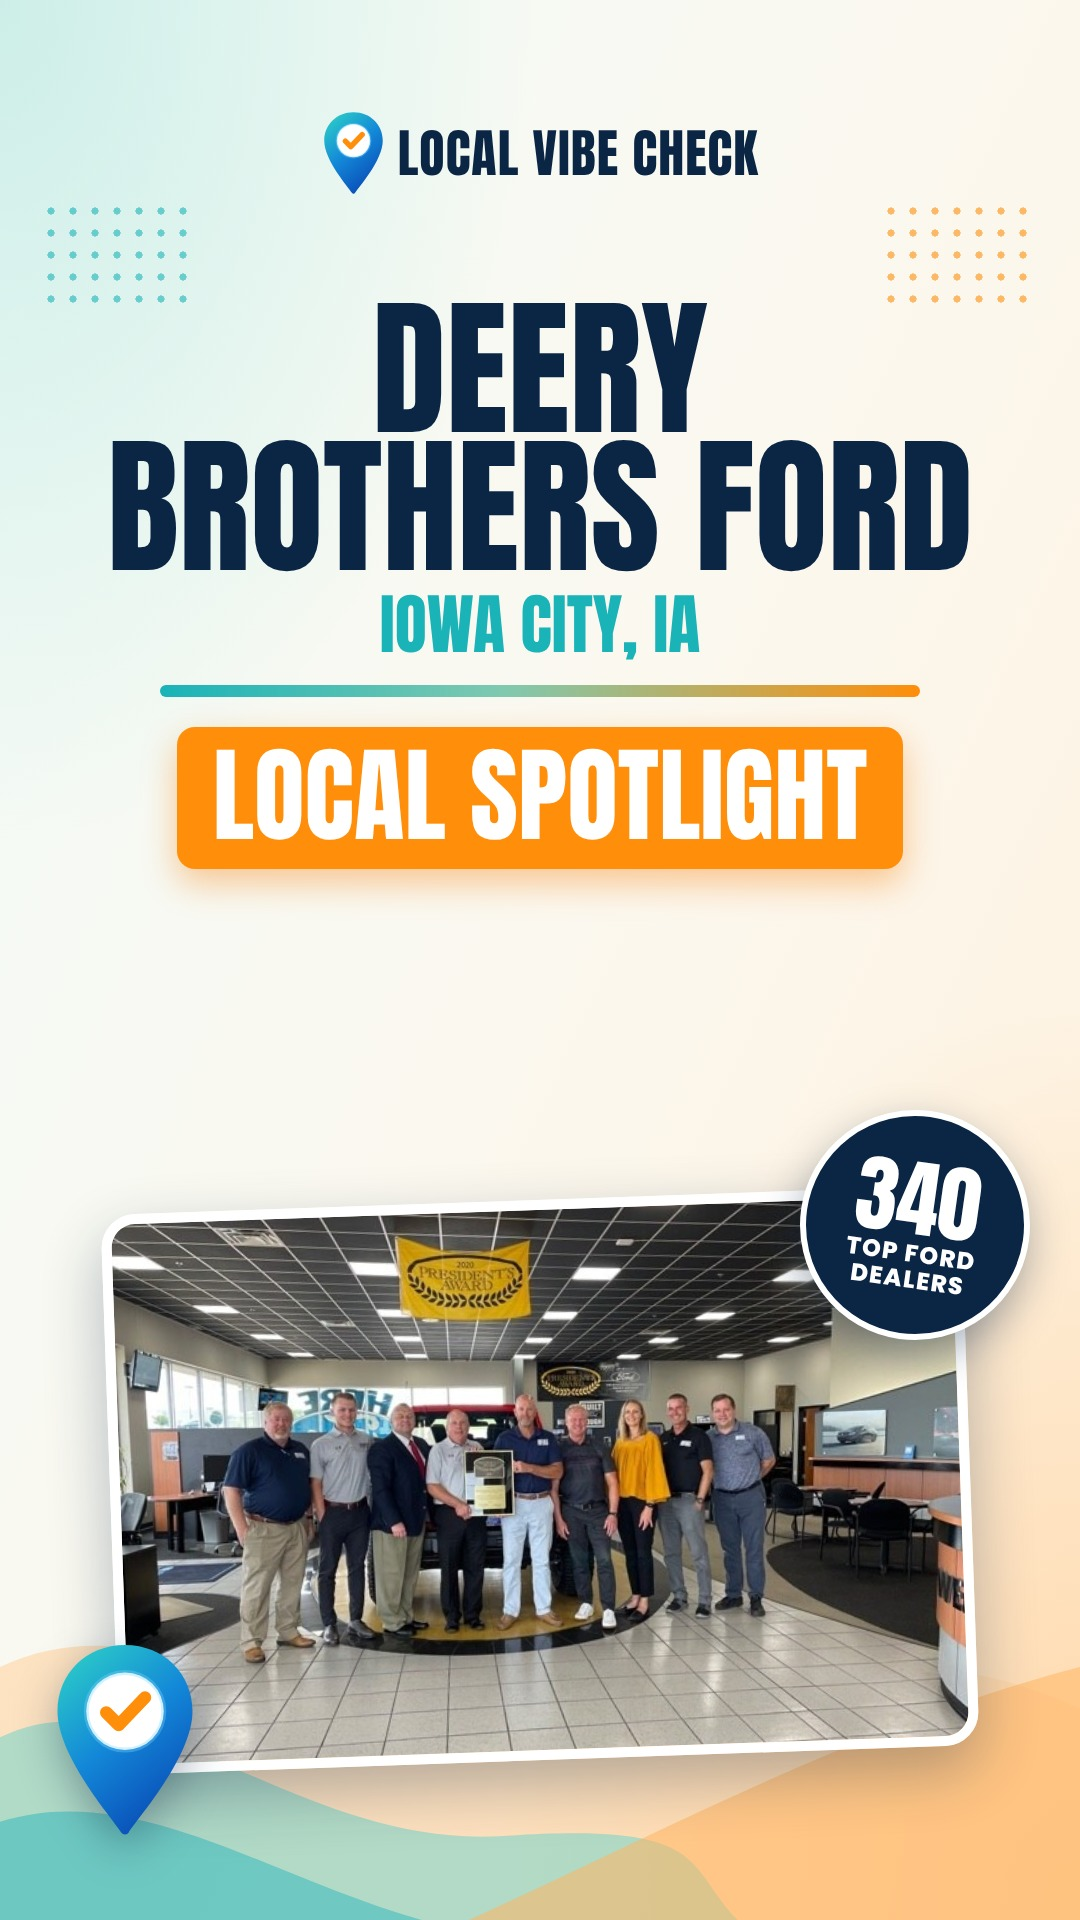
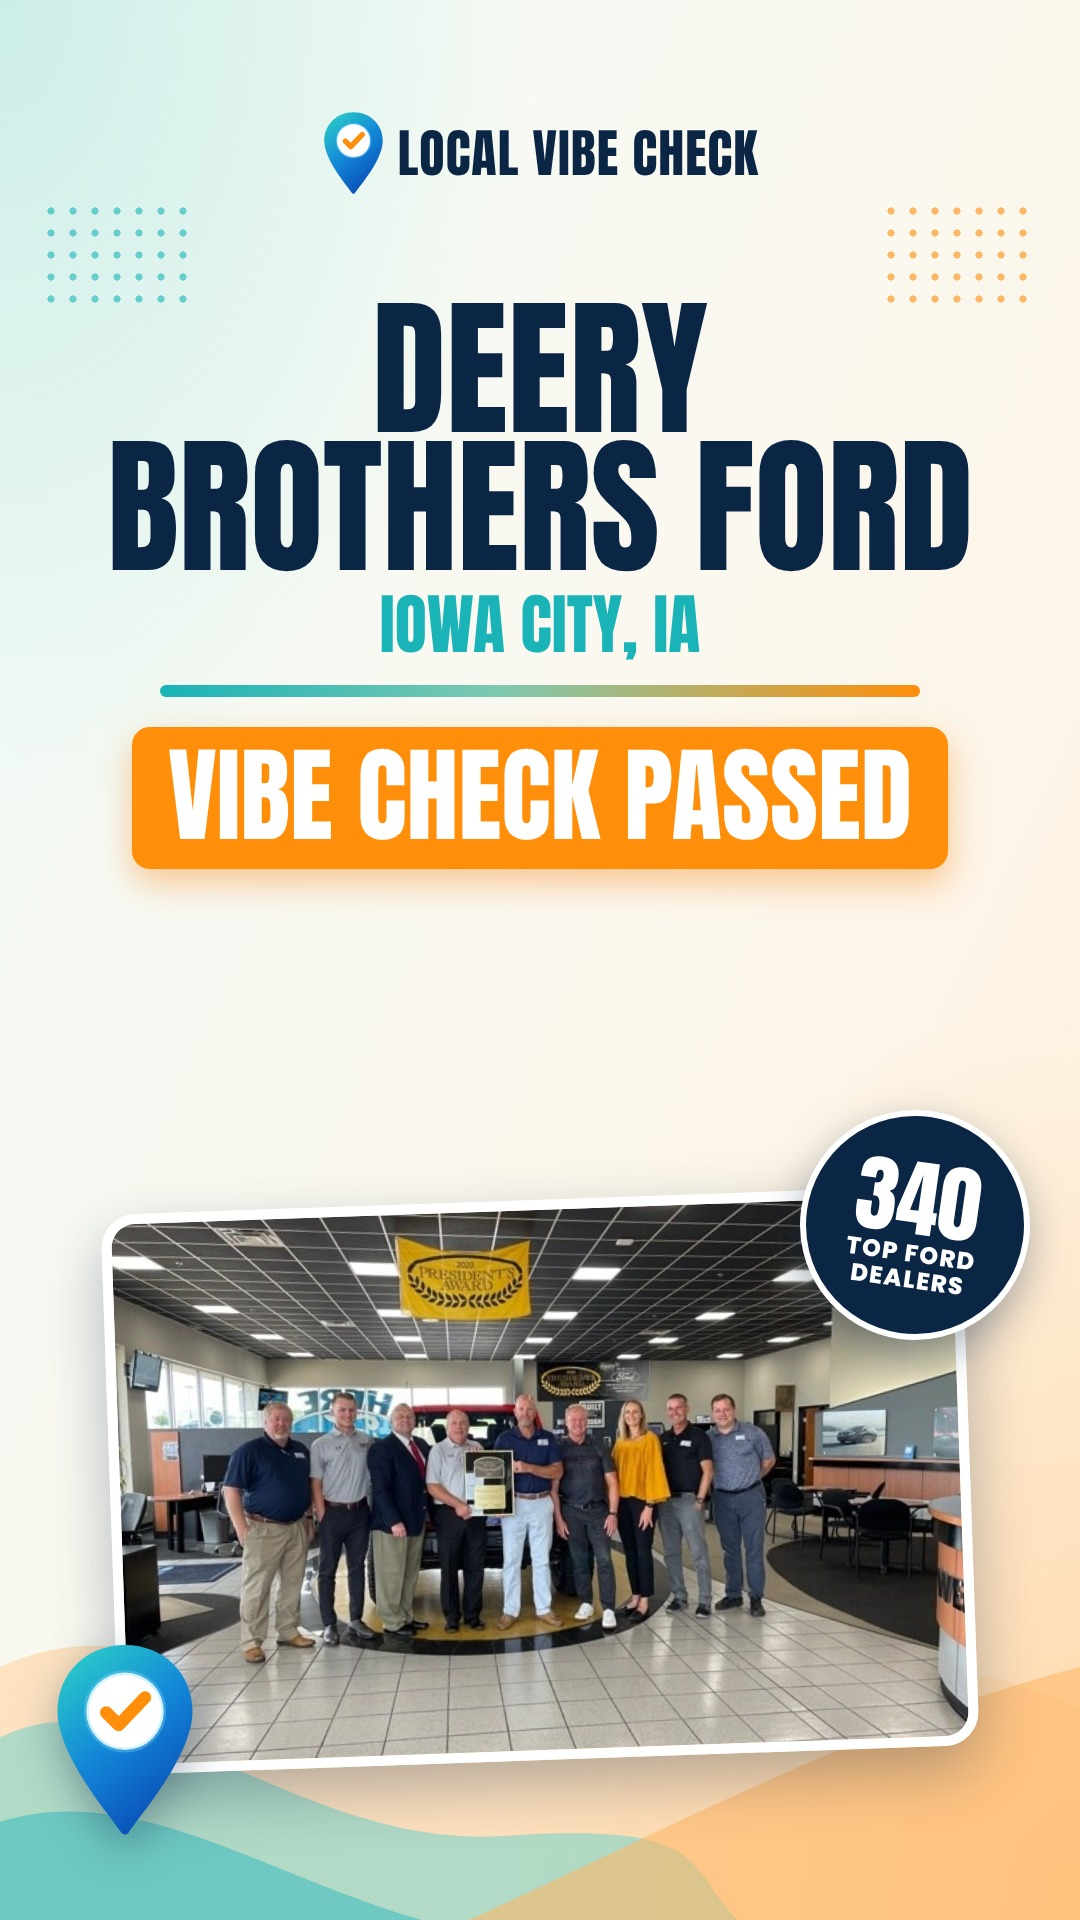
Deery Brothers Ford: end on "Vibe check passed" series sign-off
Engine: cta scenes take a "verdict" stamp in Local Vibe Check colors that
slams in on a cued word; thumbs.mjs takes tagPx; srt.py keeps short colon
phrases together and never overlaps cues.

Deery: narration now ends "Vibe check: passed." (holds retuned to keep
90.0s / 45.0s), thumbnail tag reads "Vibe Check Passed", and the YouTube
titles, description and Short caption carry it. Videos re-render next.

Claude-Session: https://claude.ai/code/session_019XHQQHv5uH696c3W2dV2VT

Changed region(s): [[0.0917, 0.375, 0.8861, 0.4688]]

diff --git a/videos/_engine/scenes.css b/videos/_engine/scenes.css
@@ -211,6 +211,22 @@ table.big th, table.big td { padding: 16px 30px; }
 .reel .contact { width: 100%; text-align: center; }
 .reel .tip { justify-content: center; }
 
+/* Series sign-off stamp ("Vibe check / Passed"): always in Local Vibe Check colors, whatever the theme */
+.verdict { position: absolute; z-index: 5; display: flex; align-items: center; gap: 18px; padding: 16px 34px 18px 22px;
+  background: #fff; color: #0b2545; border: 6px solid #19b3b8; border-radius: 26px; transform: rotate(-6deg);
+  box-shadow: 0 0 0 7px #fff, 0 0 0 11px #ff8e0a, 0 26px 50px rgba(11, 37, 69, .35); }
+.verdict img { height: 100px; flex: none; }
+.verdict .vt { display: flex; flex-direction: column; }
+.verdict .vt span { font: 800 25px/1 "Poppins", sans-serif; letter-spacing: .2em; text-transform: uppercase; color: #0b2545; }
+.verdict .vt b { font: 400 96px/.95 "Anton", Impact, sans-serif; text-transform: uppercase; letter-spacing: .02em; color: #19b3b8; margin-top: 6px; }
+.slam { animation-name: slam; animation-duration: .45s; animation-timing-function: cubic-bezier(.25, 1.35, .45, 1); }
+@keyframes slam { 0% { opacity: 0; transform: rotate(-14deg) scale(2.3); } 55% { opacity: 1; } 100% { opacity: 1; transform: rotate(-6deg) scale(1); } }
+.cta .verdict { left: 300px; bottom: 150px; }
+.reel .cta .verdict { left: auto; right: 70px; bottom: auto; top: 470px; }
+.reel .verdict img { height: 120px; }
+.reel .verdict .vt span { font-size: 30px; }
+.reel .verdict .vt b { font-size: 116px; }
+
 /* Captions */
 .caption { position: absolute; left: 0; right: 0; bottom: 56px; display: flex; justify-content: center; z-index: 6; }
 .caption span.box { font: 800 46px/1.15 var(--body); text-transform: uppercase; letter-spacing: .01em; color: #fff; background: var(--navy); padding: 16px 30px 18px; border-radius: 18px; box-shadow: 0 10px 30px rgba(11, 37, 69, .35); border-bottom: 6px solid var(--orange); max-width: 80%; text-align: center; }

diff --git a/videos/_engine/srt.py b/videos/_engine/srt.py
@@ -54,10 +54,13 @@ def cues(scenes, fmt):
             nxt = words[i + 1][0] if i + 1 < len(words) else None
             text = " ".join(line)
             brk = (nxt is None or len(text) + len(words[i + 1][1]) + 1 > MAX_CHARS
-                   or nxt - t0 > MAX_SECS or w.endswith((".", "?", "!", ":")) or (w.endswith(",") and len(text) > 24))
+                   or nxt - t0 > MAX_SECS or w.endswith((".", "?", "!")) or (w.endswith((",", ":")) and len(text) > 24))
             if brk:
                 end = min(nxt if nxt is not None else end_of_scene - 0.3, t0 + 4.5)
-                out.append((t0, max(end, t0 + 0.6), text))
+                end = max(end, t0 + 0.6)
+                if nxt is not None:
+                    end = min(end, nxt)  # never overlap the next cue
+                out.append((t0, end, text))
                 line, t0 = [], None
     return out
 

diff --git a/videos/deery-brothers-ford-spotlight-2026/youtube.md b/videos/deery-brothers-ford-spotlight-2026/youtube.md
@@ -8,11 +8,11 @@ Captions: `out/deery-brothers-ford-spotlight-2026.srt` (YouTube Studio → Subti
 
 ### Title
 
-Deery Brothers Ford Iowa City: No Haggling, In & Out in 90 Minutes (Local Business Spotlight)
+Vibe Check Passed ✅ Deery Brothers Ford, Iowa City (No Haggling, In & Out in 90 Minutes)
 
 Shorter alternatives:
-- Deery Brothers Ford: Iowa City's Hometown Ford Dealer | Local Vibe Check
-- Meet Deery Brothers Ford, Iowa City (Co-Owner Tyler Eads on Respect & Transparency)
+- Deery Brothers Ford, Iowa City: Vibe Check Passed ✅ | Local Vibe Check
+- Vibe Check Passed: Iowa City's Hometown Ford Dealer, Deery Brothers Ford
 
 ### Description
 
@@ -39,6 +39,8 @@ See dealer for complete warranty details and eligibility.
 
 "Buying the car is the wedding. Owning the car is the marriage." – Tyler Eads, co-owner
 
+✅ Deery Brothers Ford: vibe check passed.
+
 What customers say (4.8★ on Google):
 ⭐ "Had such a phenomenal experience buying my first big girl car at Deery!! What can typically be a very intimidating process was made so easy." – Elizabeth J.
 ⭐ "My salesman was prompt, professional, and so easy to work with. Overall, 6 out of 5 stars." – Eric H.
@@ -49,17 +51,17 @@ Chapters:
 0:20 New, used, financing & service
 0:37 The ownership experience: warranty & awards
 0:58 Treated fairly: customer reviews
-1:16 Visit Deery Brothers Ford
+1:16 Visit Deery Brothers Ford: vibe check passed
 
 Details from deeryford.com. Reviews via Deery Brothers Ford's customer reviews page. Footage: Deery Brothers Ford.
 
 Local Vibe Check: price guides, places and trusted local businesses. Subscribe for more local spotlights.
 
-#DeeryBrothersFord #IowaCity #FordDealer #IowaCityFord #LocalBusiness #Iowa #LocalVibeCheck
+#VibeCheckPassed #DeeryBrothersFord #IowaCity #FordDealer #IowaCityFord #LocalBusiness #LocalVibeCheck
 
 ### Tags
 
-deery brothers ford, deery ford, deery brothers ford iowa city, iowa city ford dealer, ford dealer iowa city, iowa city car dealership, new ford iowa city, used cars iowa city, ford service iowa city, ford f-150 iowa city, tyler eads, no haggle car buying, iowa city, coralville, north liberty, local business spotlight, local vibe check
+deery brothers ford, deery ford, deery brothers ford iowa city, iowa city ford dealer, ford dealer iowa city, iowa city car dealership, new ford iowa city, used cars iowa city, ford service iowa city, ford f-150 iowa city, tyler eads, no haggle car buying, iowa city, coralville, north liberty, local business spotlight, local vibe check, vibe check passed
 
 ### Settings
 
@@ -76,16 +78,17 @@ Captions: burned in. `out/deery-brothers-ford-spotlight-2026-reel.srt` is option
 
 ### Title
 
-No Haggling, In & Out in 90 Minutes 🚙 Deery Brothers Ford Iowa City #shorts
+Vibe Check Passed ✅ Deery Brothers Ford, Iowa City #shorts
 
 ### Caption
 
 "People just want to be respected." 👇 Co-owner Tyler Eads on how Deery Brothers Ford does it in Iowa City.
 🚙 New & used Fords · 💳 financing & trades · 🔧 service & parts · 🚚 free pickup & delivery
 ⭐ 4.8 stars on Google
+✅ Vibe check: passed.
 
 📞 (319) 337-4600
 📍 2343 Mormon Trek Blvd, Iowa City, IA 52246
 🔗 https://www.deeryford.com/
 
-#shorts #DeeryBrothersFord #IowaCity #FordDealer #LocalVibeCheck
+#shorts #VibeCheckPassed #DeeryBrothersFord #IowaCity #LocalVibeCheck

diff --git a/videos/README.md b/videos/README.md
@@ -57,6 +57,11 @@ clip's own audio instead of a voiceover (Whisper times its captions). Start the 
 strip for a scene (the source footage often has its own) and gives a `footage` side panel more room
 (see `deery-brothers-ford-spotlight-2026/script.json`).
 
+Business spotlights end on the series sign-off: give the `cta` scene `"verdict": ["Vibe check", "Passed"]`
+and `"verdictCue": "pas"` and end the narration with "Vibe check: passed." A stamp in Local Vibe
+Check colors (whatever the business theme) slams onto the photo on that word. Set the thumbnail
+`tag` to "Vibe Check Passed" too (`tagPx` shrinks the landscape tag if it pushes the year onto its own line).
+
 Brand themes: `"theme": "theme.css"` in script.json loads that file from the assets folder after
 the engine's styles, so a business spotlight can use the business's own colors, fonts and accents
 (see `iowa-aeo-spotlight-2026/assets/theme.css`).
